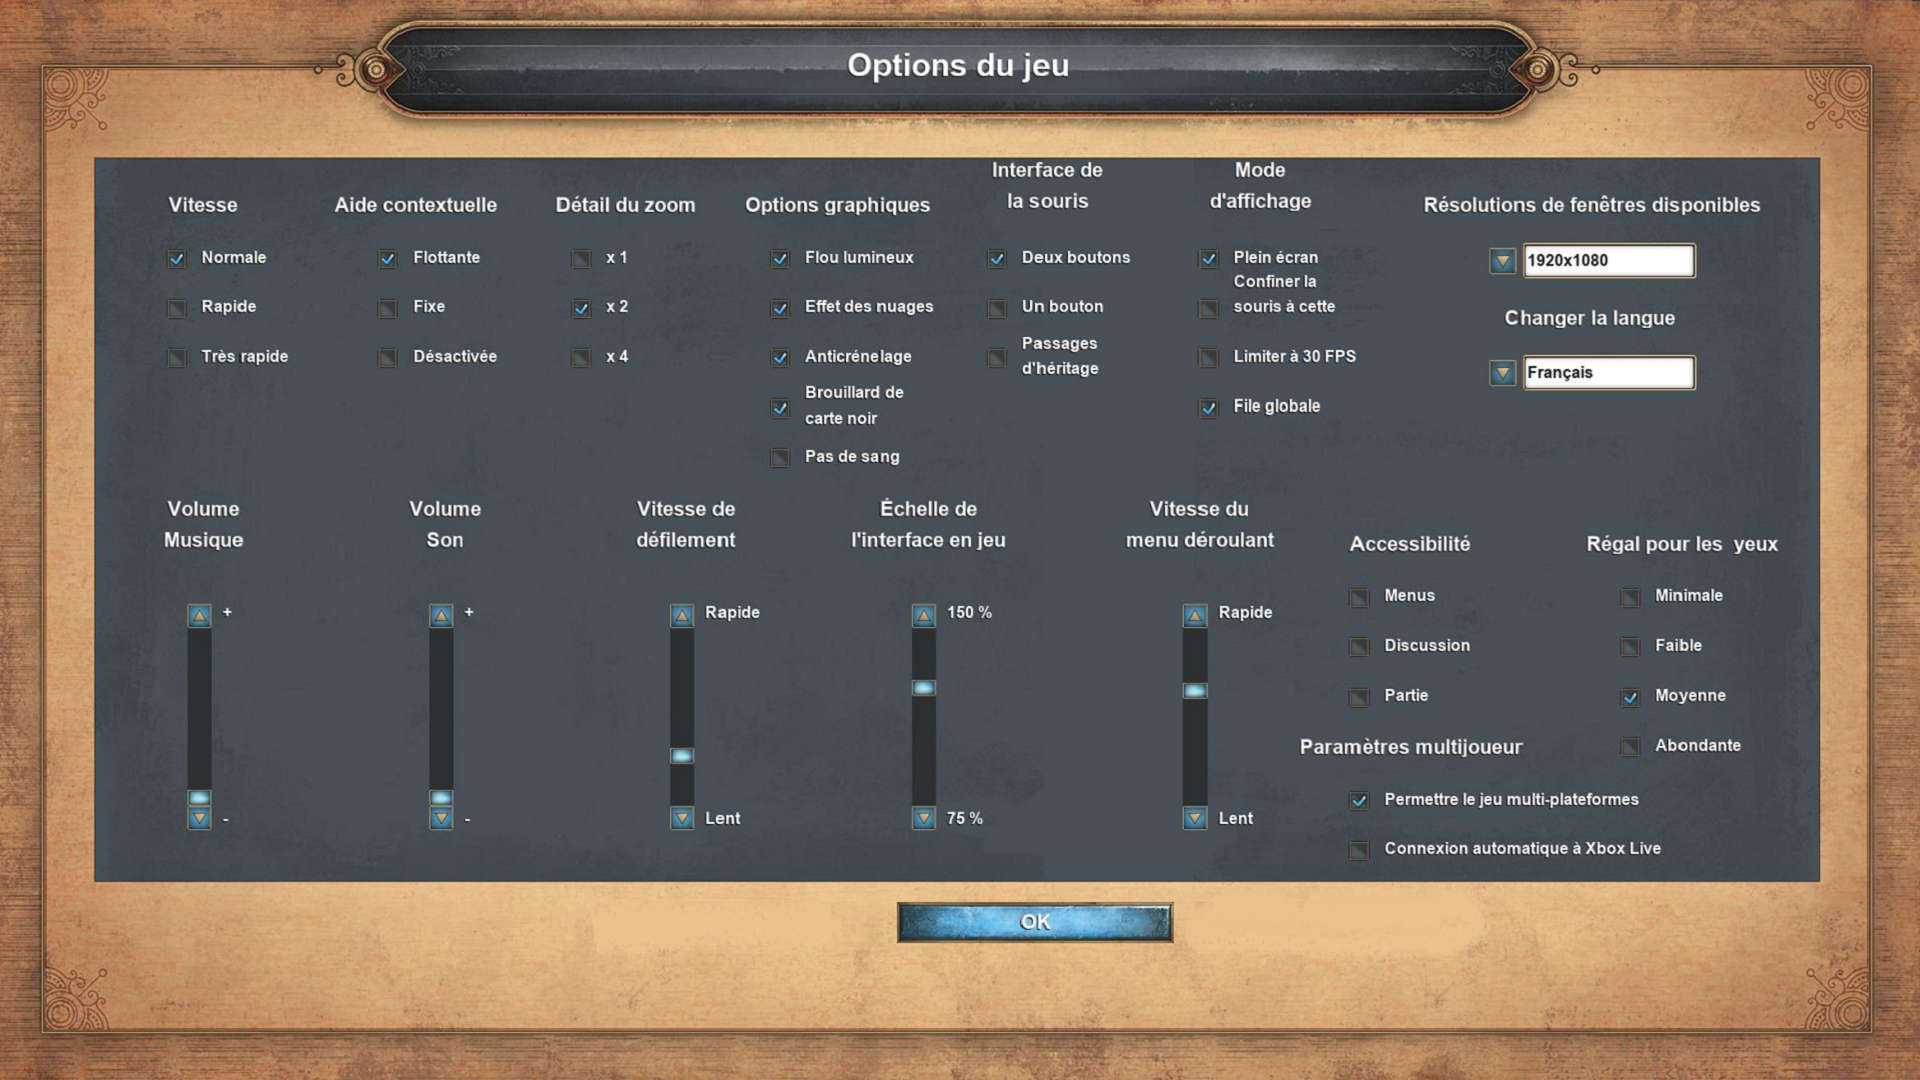
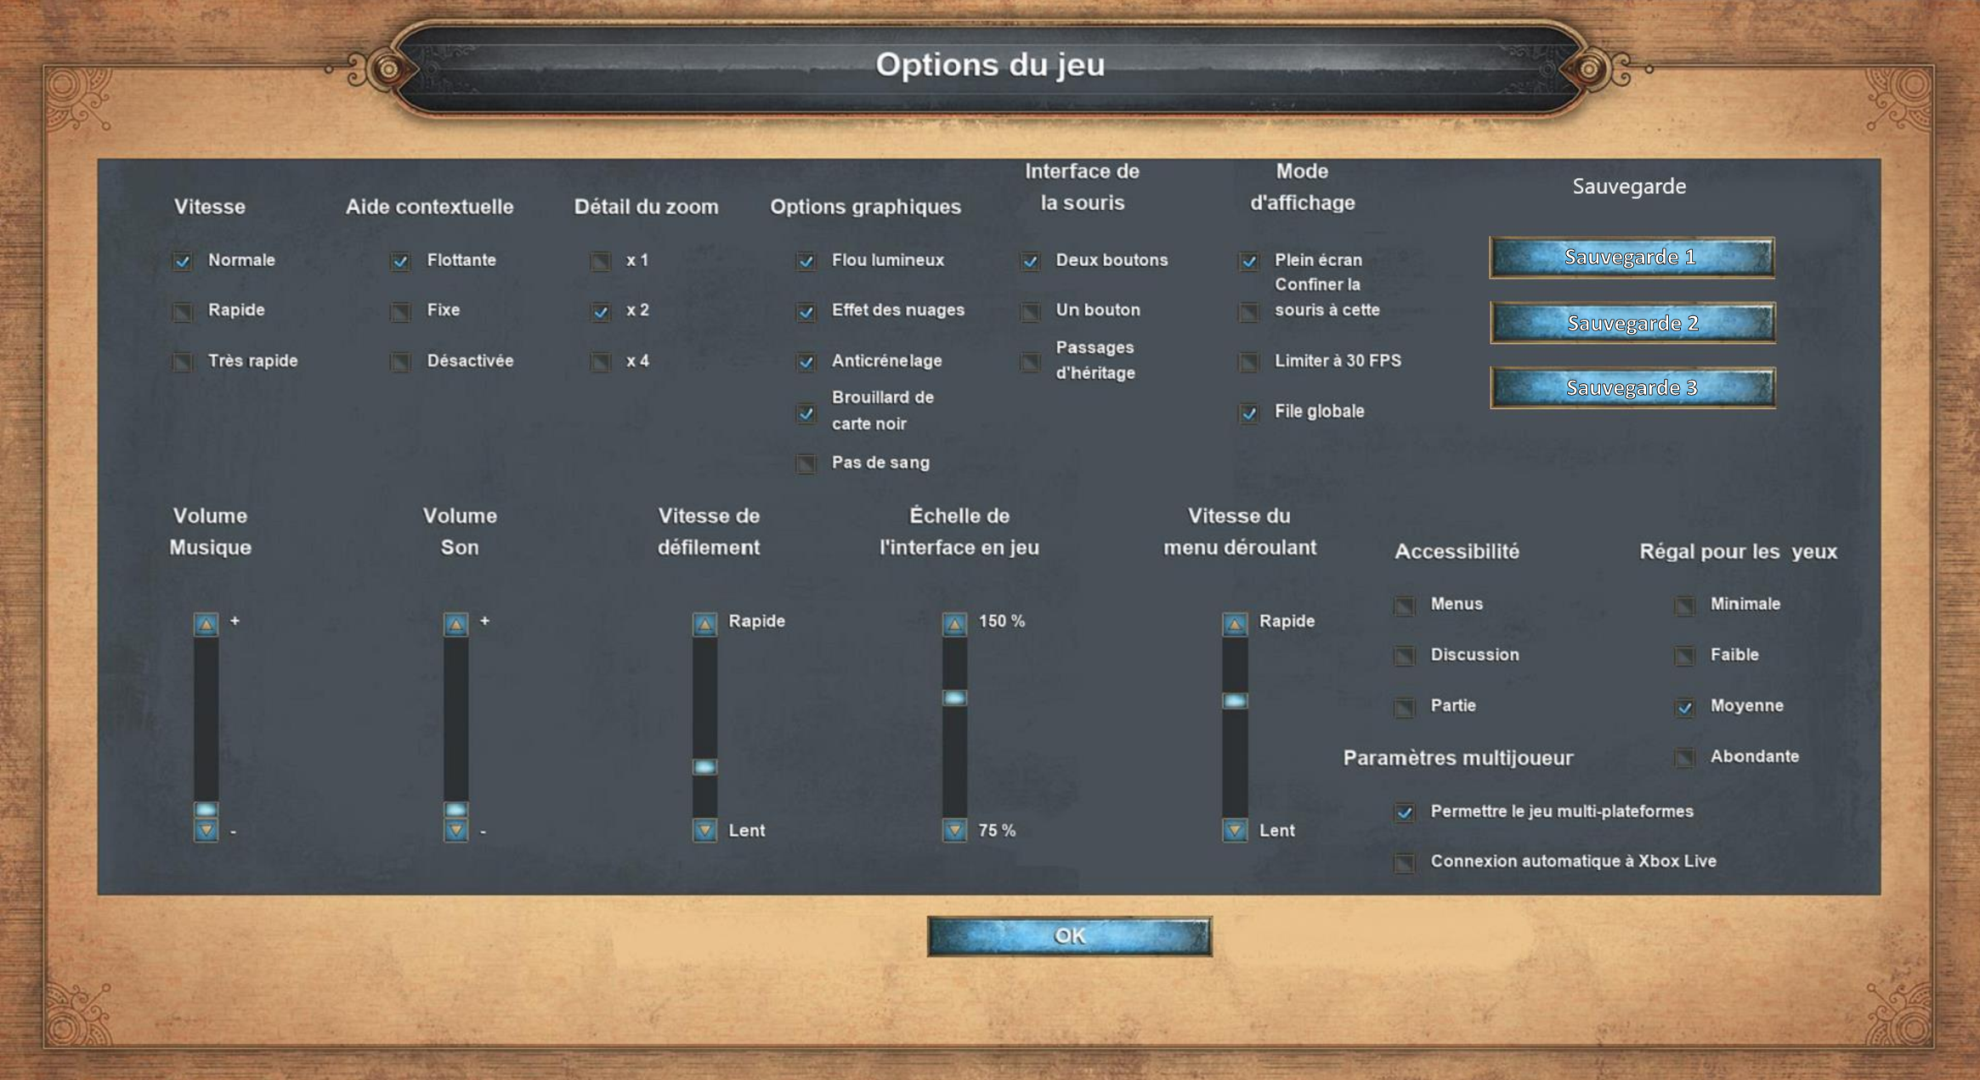
ajout image 3 sauvegardes et réglages positions boutons

diff --git a/game/ecranOptions.py b/game/ecranOptions.py
@@ -36,13 +36,13 @@ class Options:
             draw_text(self.screen, 'Options', 30, WHITE, (20, 20))
             mx, my = pygame.mouse.get_pos()  # récupération des clics de souris
 
-            button_normal = pygame.Rect(170, 250, 15, 15) # les boutons (ici, invisibles) -> bouton ok
-            button_fast = pygame.Rect(170, 300, 15, 15)
-            button_veryfast = pygame.Rect(170, 350, 15, 15)
-            button_ok = pygame.Rect(897,903,278,40)
+            button_normal = pygame.Rect(171, 251, 20, 20) # les boutons (ici, invisibles) -> bouton ok
+            button_fast = pygame.Rect(171, 301, 20, 20)
+            button_veryfast = pygame.Rect(171, 352, 20, 20)
+            button_ok = pygame.Rect(925,915,285,40)
 
             if button_ok.collidepoint((mx, my)): #zone de collision des boutons et action quand cliqué
-                pygame.draw.rect(self.screen, (255, 255, 255), (896, 902, 277, 40), 3)
+                pygame.draw.rect(self.screen, (255, 255, 255), (925, 915, 288, 42), 3)
                 if click:
                     self.playing=False
 
@@ -69,6 +69,7 @@ class Options:
             # pygame.draw.rect(self.screen, (255, 215, 50), button_ok)
             # pygame.draw.rect(self.screen, (255, 215, 50), button_veryfast)
             # pygame.draw.rect(self.screen, (255, 215, 50), button_normal)
+            # pygame.draw.rect(self.screen, (255, 215, 50), button_fast)
 
             click = False
             for event in pygame.event.get():

diff --git a/main.py b/main.py
@@ -36,7 +36,7 @@ def main():
     while running:
 
         # start menu goes here
-        #startscreen.ecran_demarrage()
+        startscreen.ecran_demarrage()
 
         while playing:
             # game loop here
